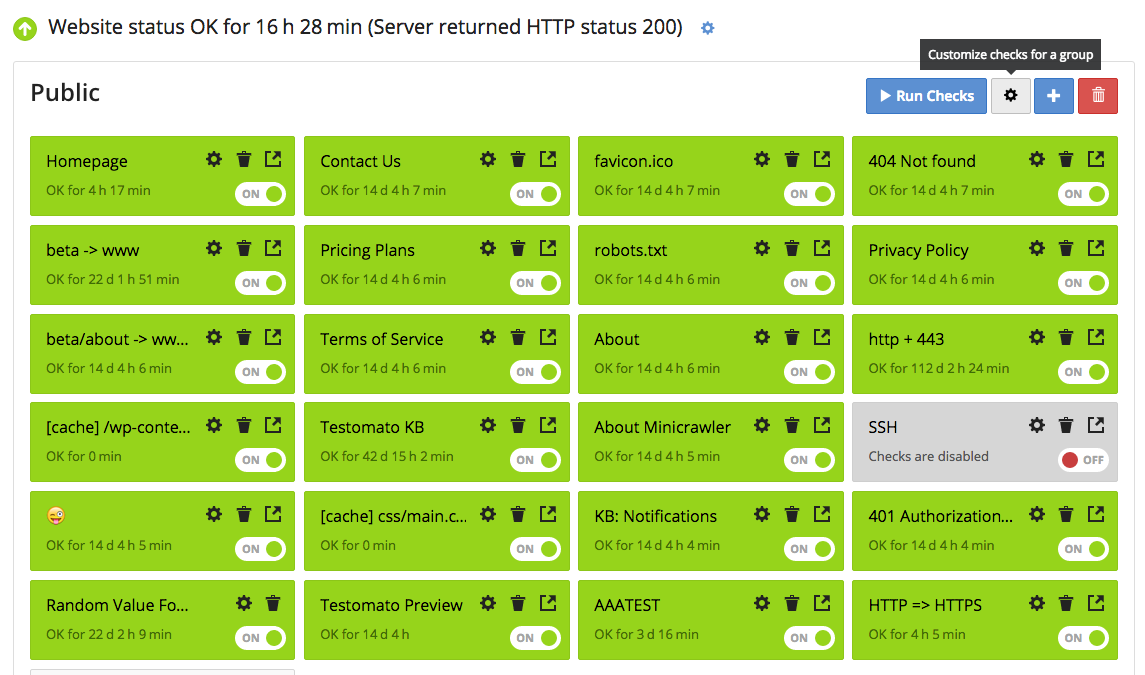
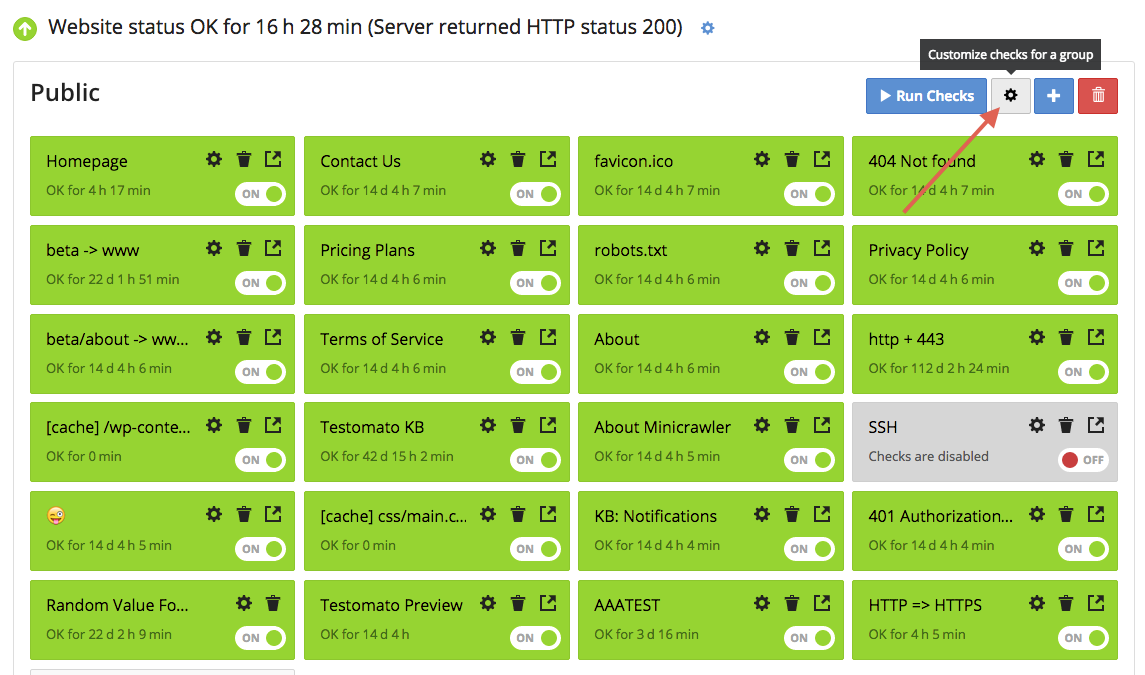
Groups settings

diff --git a/checks/multiple/index.rst b/checks/multiple/index.rst
@@ -6,14 +6,13 @@ apply it to a Group of rules. For example, your main dashboard is considered "a 
 
 Rules for a group of rules will always be applied to the entire group. If you
 would like to create a rule that applies to a single check,
-please visit this article.
+:doc:`please visit this article </check/add-check/index>`.
 
 1. Click on the  gear icon at the top-right of your project dashboard.
 
 .. image:: group-settings-button.png
   :alt: Group Settings
   :align: center
-
 
 2. Enter the name of the area (optional) and click  Add rule.
 

diff --git a/groups/settings/index.rst b/groups/settings/index.rst
@@ -1,0 +1,12 @@
+Group settings
+==============
+
+1. Click on the project you’d like to view or select.
+
+2. Click on the gear icon at the top-right of your project dashboard.
+
+.. image:: group-settings-button.png
+  :alt: Group Settings
+  :align: center
+
+2. Change settings and click **Save**.
